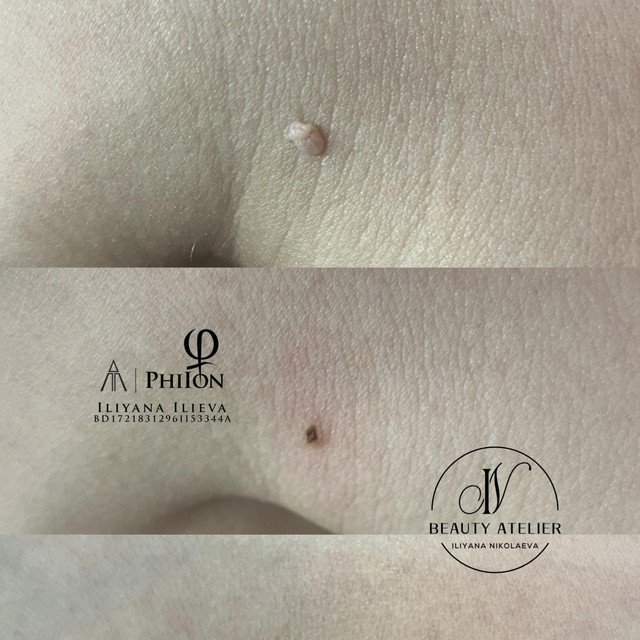
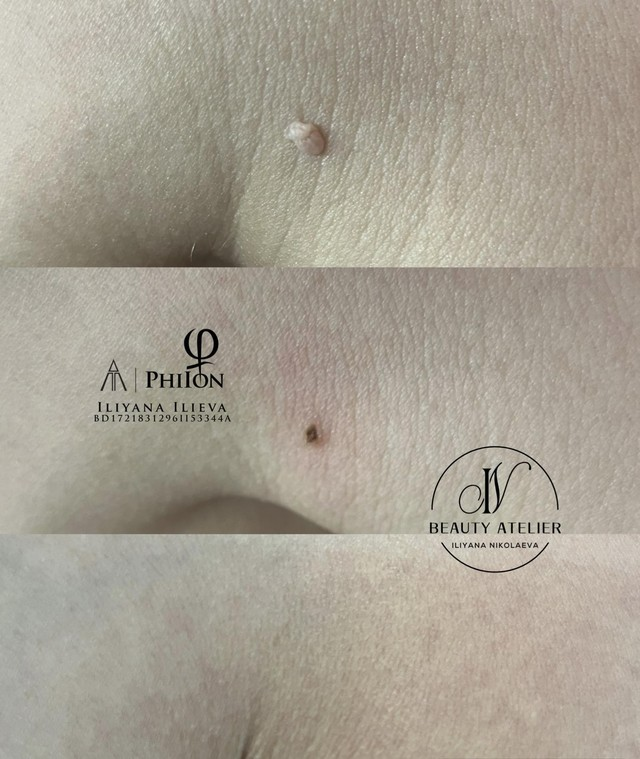
blog: show full fibromi collage image without cropping
Replaced 640x640 cropped hero with full 640x759 uncropped version
so the before/during/healed collage is fully visible. Removed
forced aspect-ratio on blog listing card.

diff --git a/blog.html b/blog.html
@@ -366,7 +366,7 @@
                             <div class="col-md-12" data-category="aesthetic">
                                 <div class="blog-card-four wow fadeInUp" data-wow-duration='1500ms' data-wow-delay='00ms'>
                                     <div class="blog-card-four__image">
-                                        <img src="assets/images/blog/fibromi-premahvane-hero.jpg" alt="Фиброми и Брадавици: Професионално Премахване с PhiIon" style="width: 100%; height: auto; object-fit: cover; aspect-ratio: 518/350;">
+                                        <img src="assets/images/blog/fibromi-premahvane-hero.jpg" alt="Фиброми и Брадавици: Професионално Премахване с PhiIon" style="width: 100%; height: auto;">
                                         <a href="fibromi-premahvane.html" class="blog-card-four__image__link"><span class="sr-only">Фиброми и Брадавици: Какво Са, Защо Се Появяват и Как Се Премахват Професионално</span></a>
                                         <time datetime="2026-05-17" class="blog-card-four__date">
                                             <span class="blog-card-four__date__day">17</span>
